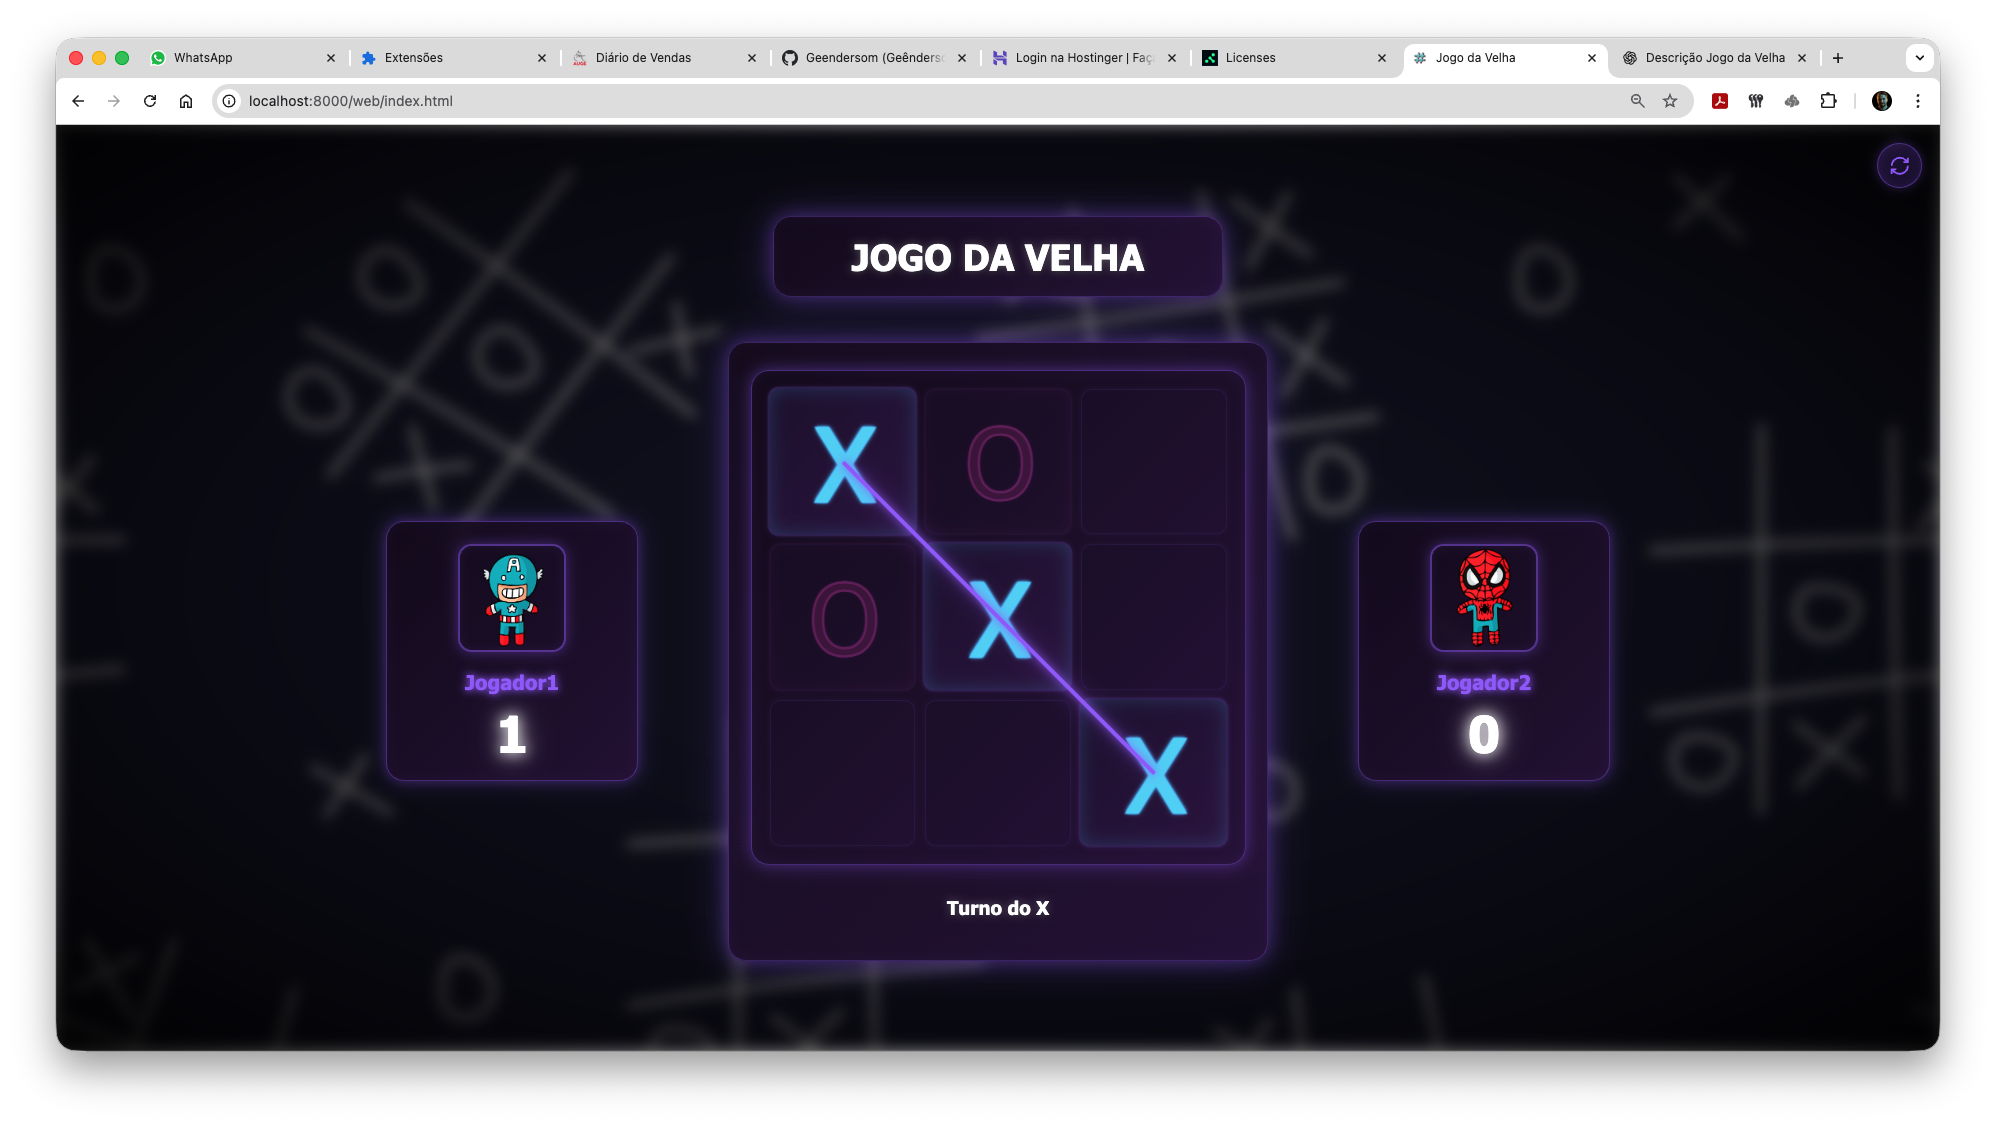
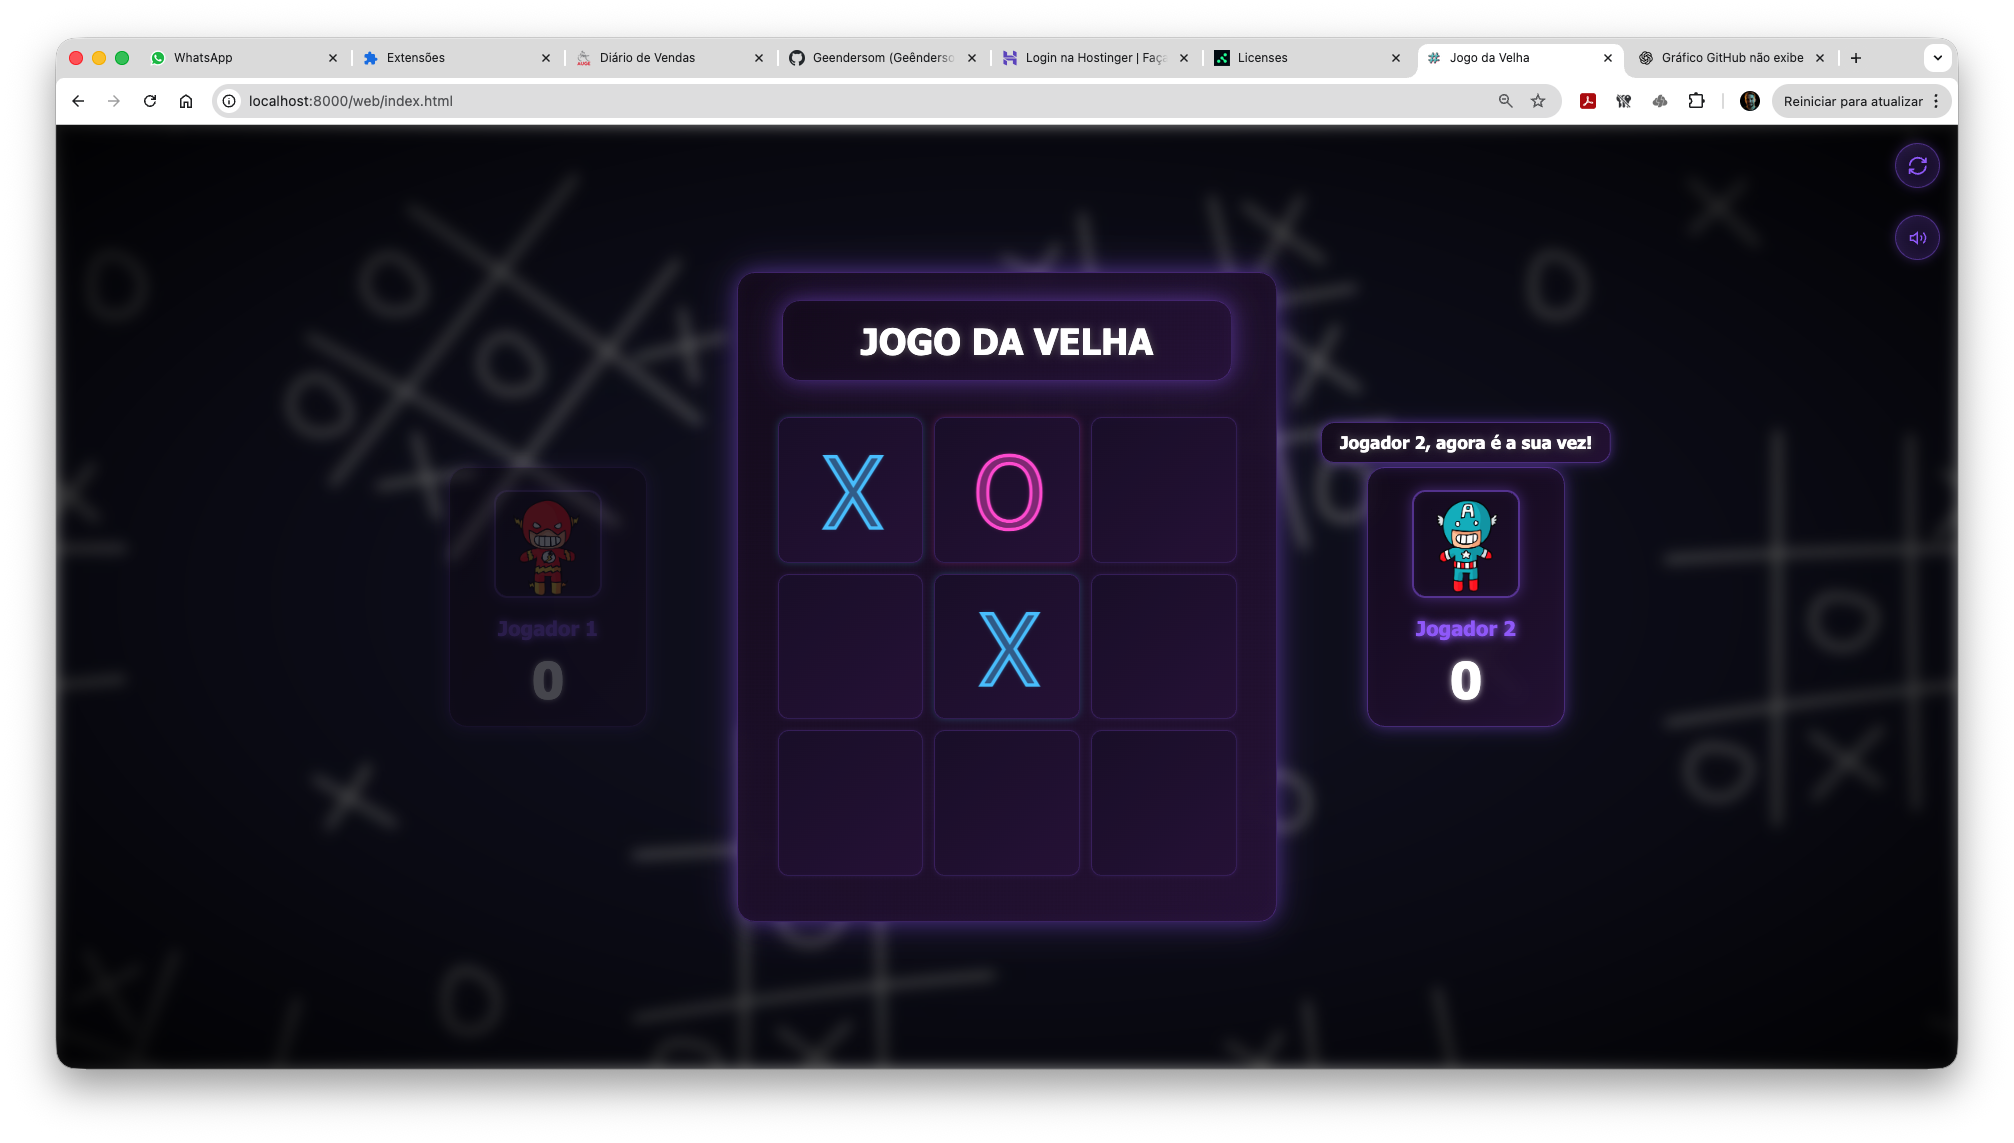
Melhorada a linha da vitória diagonal.

diff --git a/web/styles.css b/web/styles.css
@@ -184,7 +184,7 @@ body::after {
 .linha-vitoria.diagonal-1,
 .linha-vitoria.diagonal-2 {
     width: 0;
-    height: 4px;
+    height: 6px;
     /* Aplica rotação diretamente no CSS usando variável */
     transform: rotate(var(--linha-angle, 0deg));
     transform-origin: var(--linha-transform-origin, left center);

diff --git a/python/JogoDaVelha.py b/python/JogoDaVelha.py
@@ -553,8 +553,8 @@ class JogoDaVelha:
             
             tipo = 'diagonal-1' if pos_str == '357' else 'diagonal-2'
             
-            # Altura da linha (espessura)
-            line_height = 4
+            # Altura da linha (espessura) - aumentada para diagonais
+            line_height = 6
             
             # Posição inicial: centro da primeira célula
             # Ajusta para centralizar verticalmente a linha
